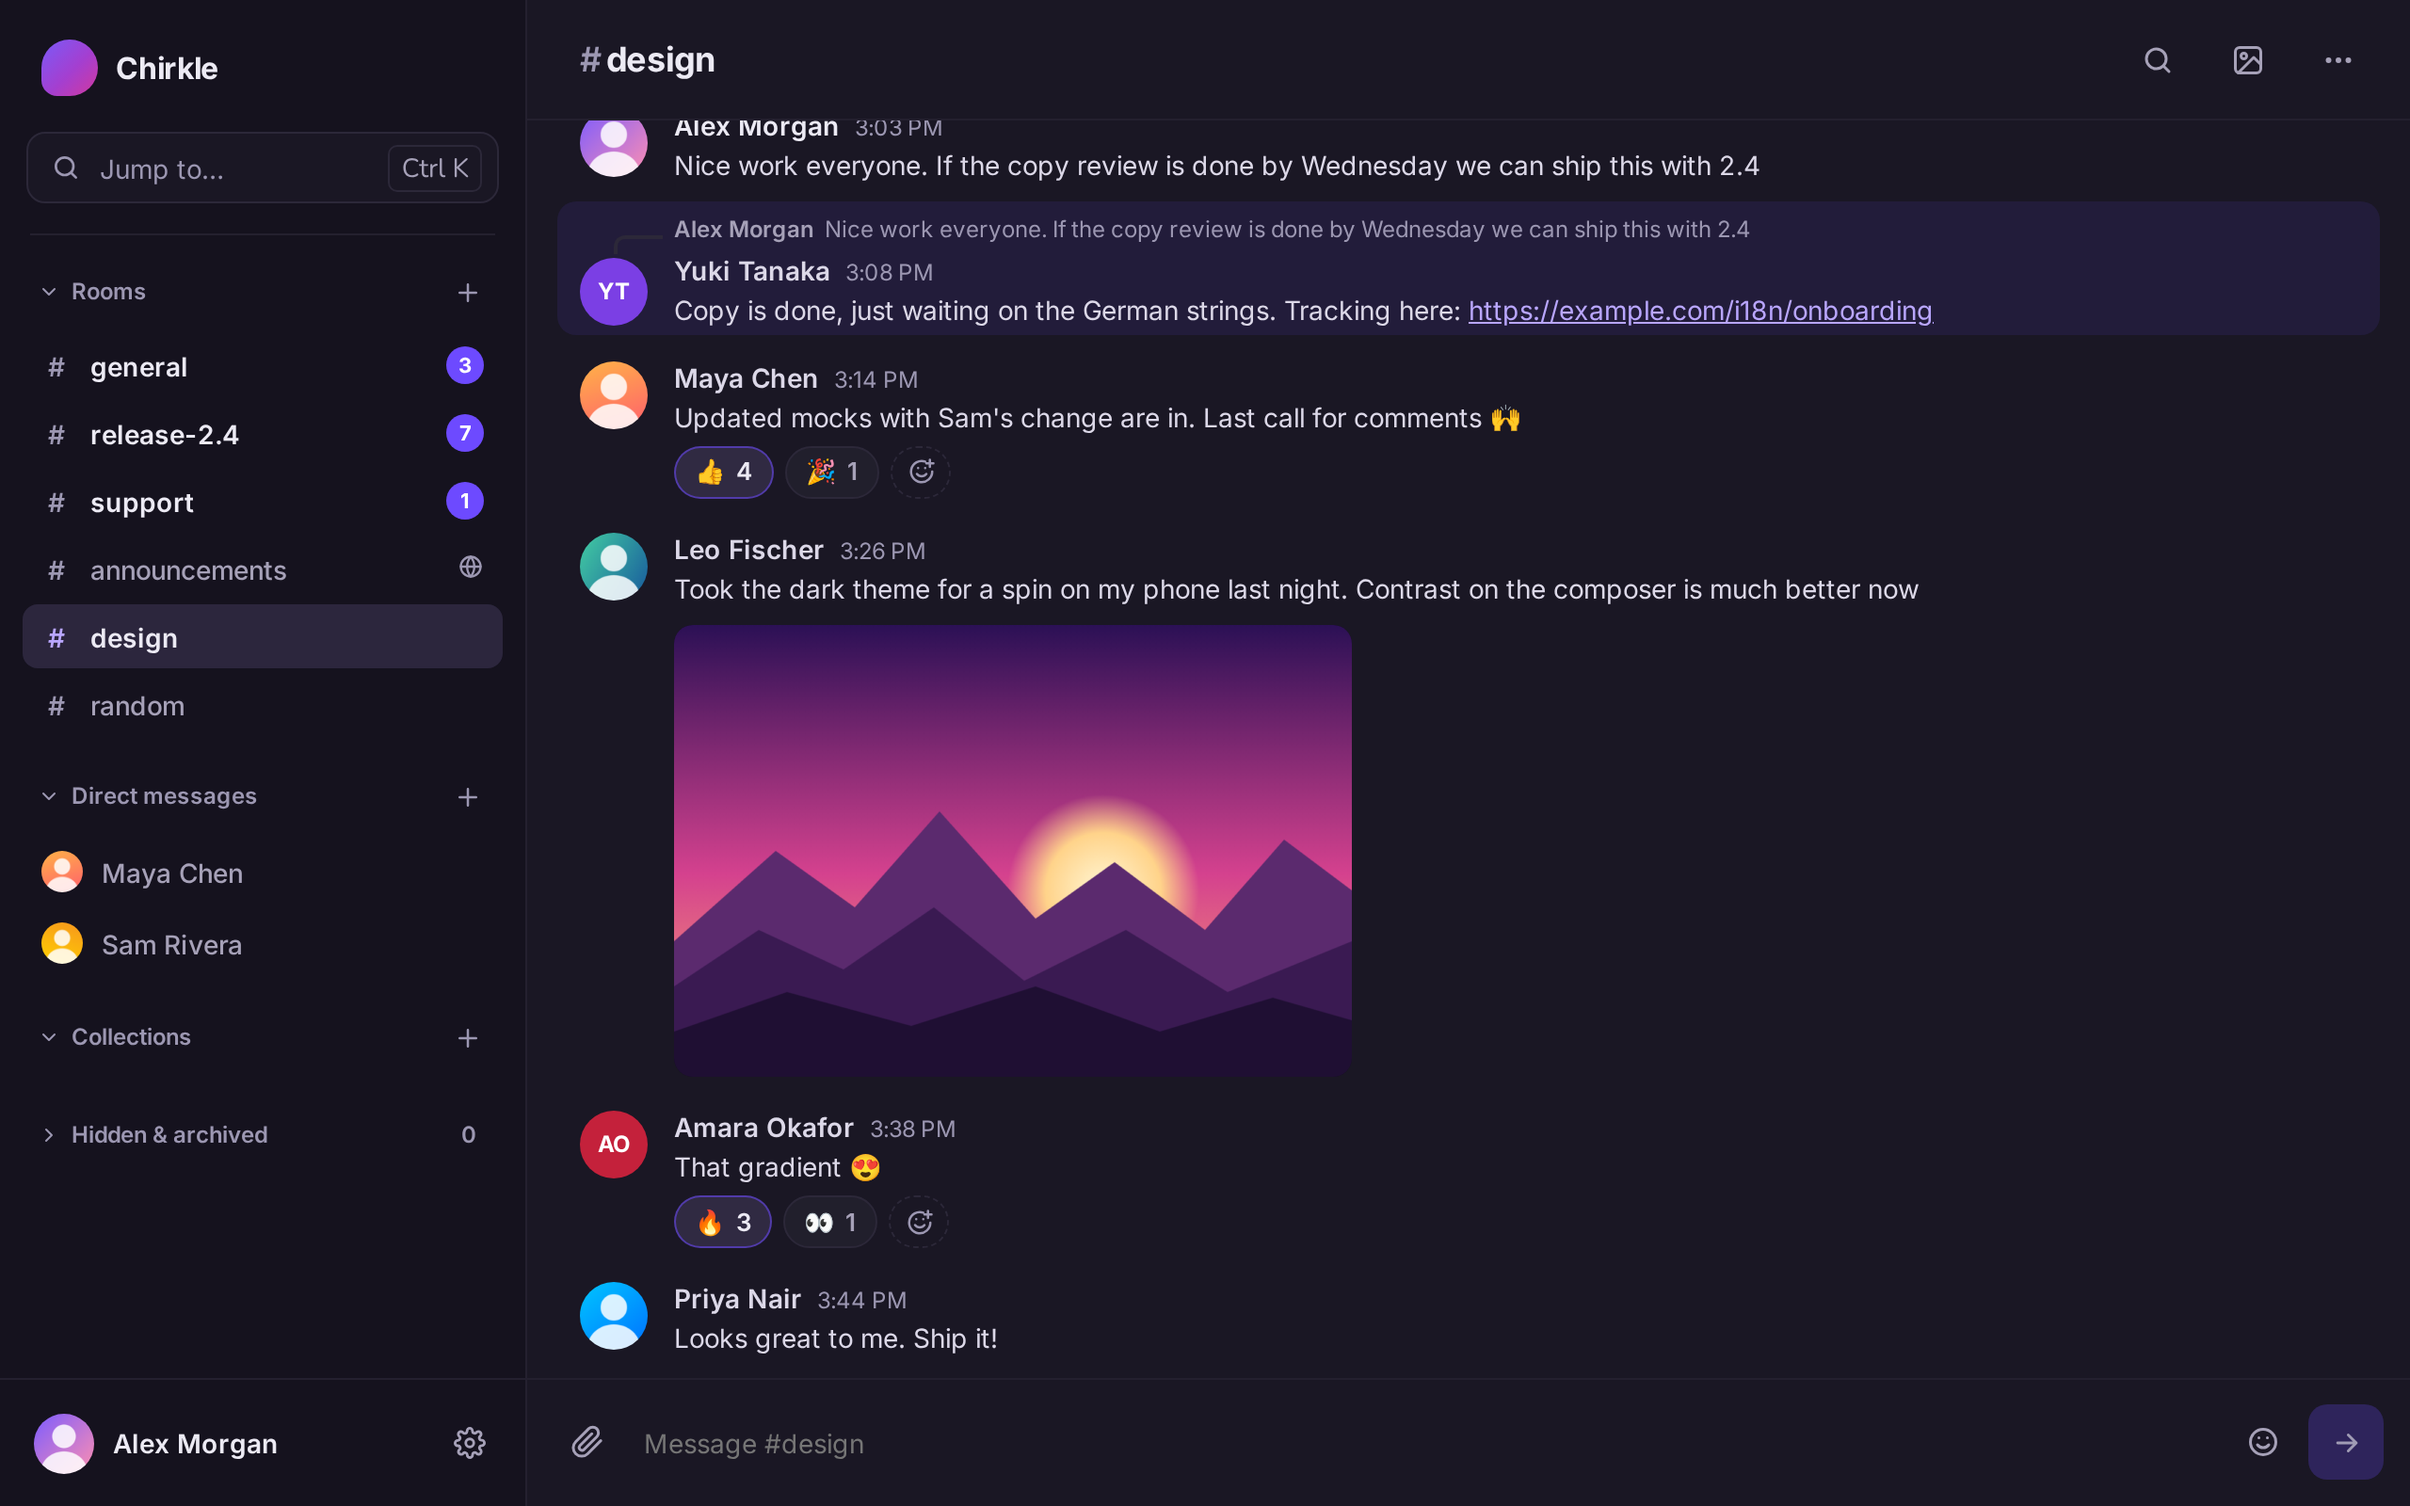
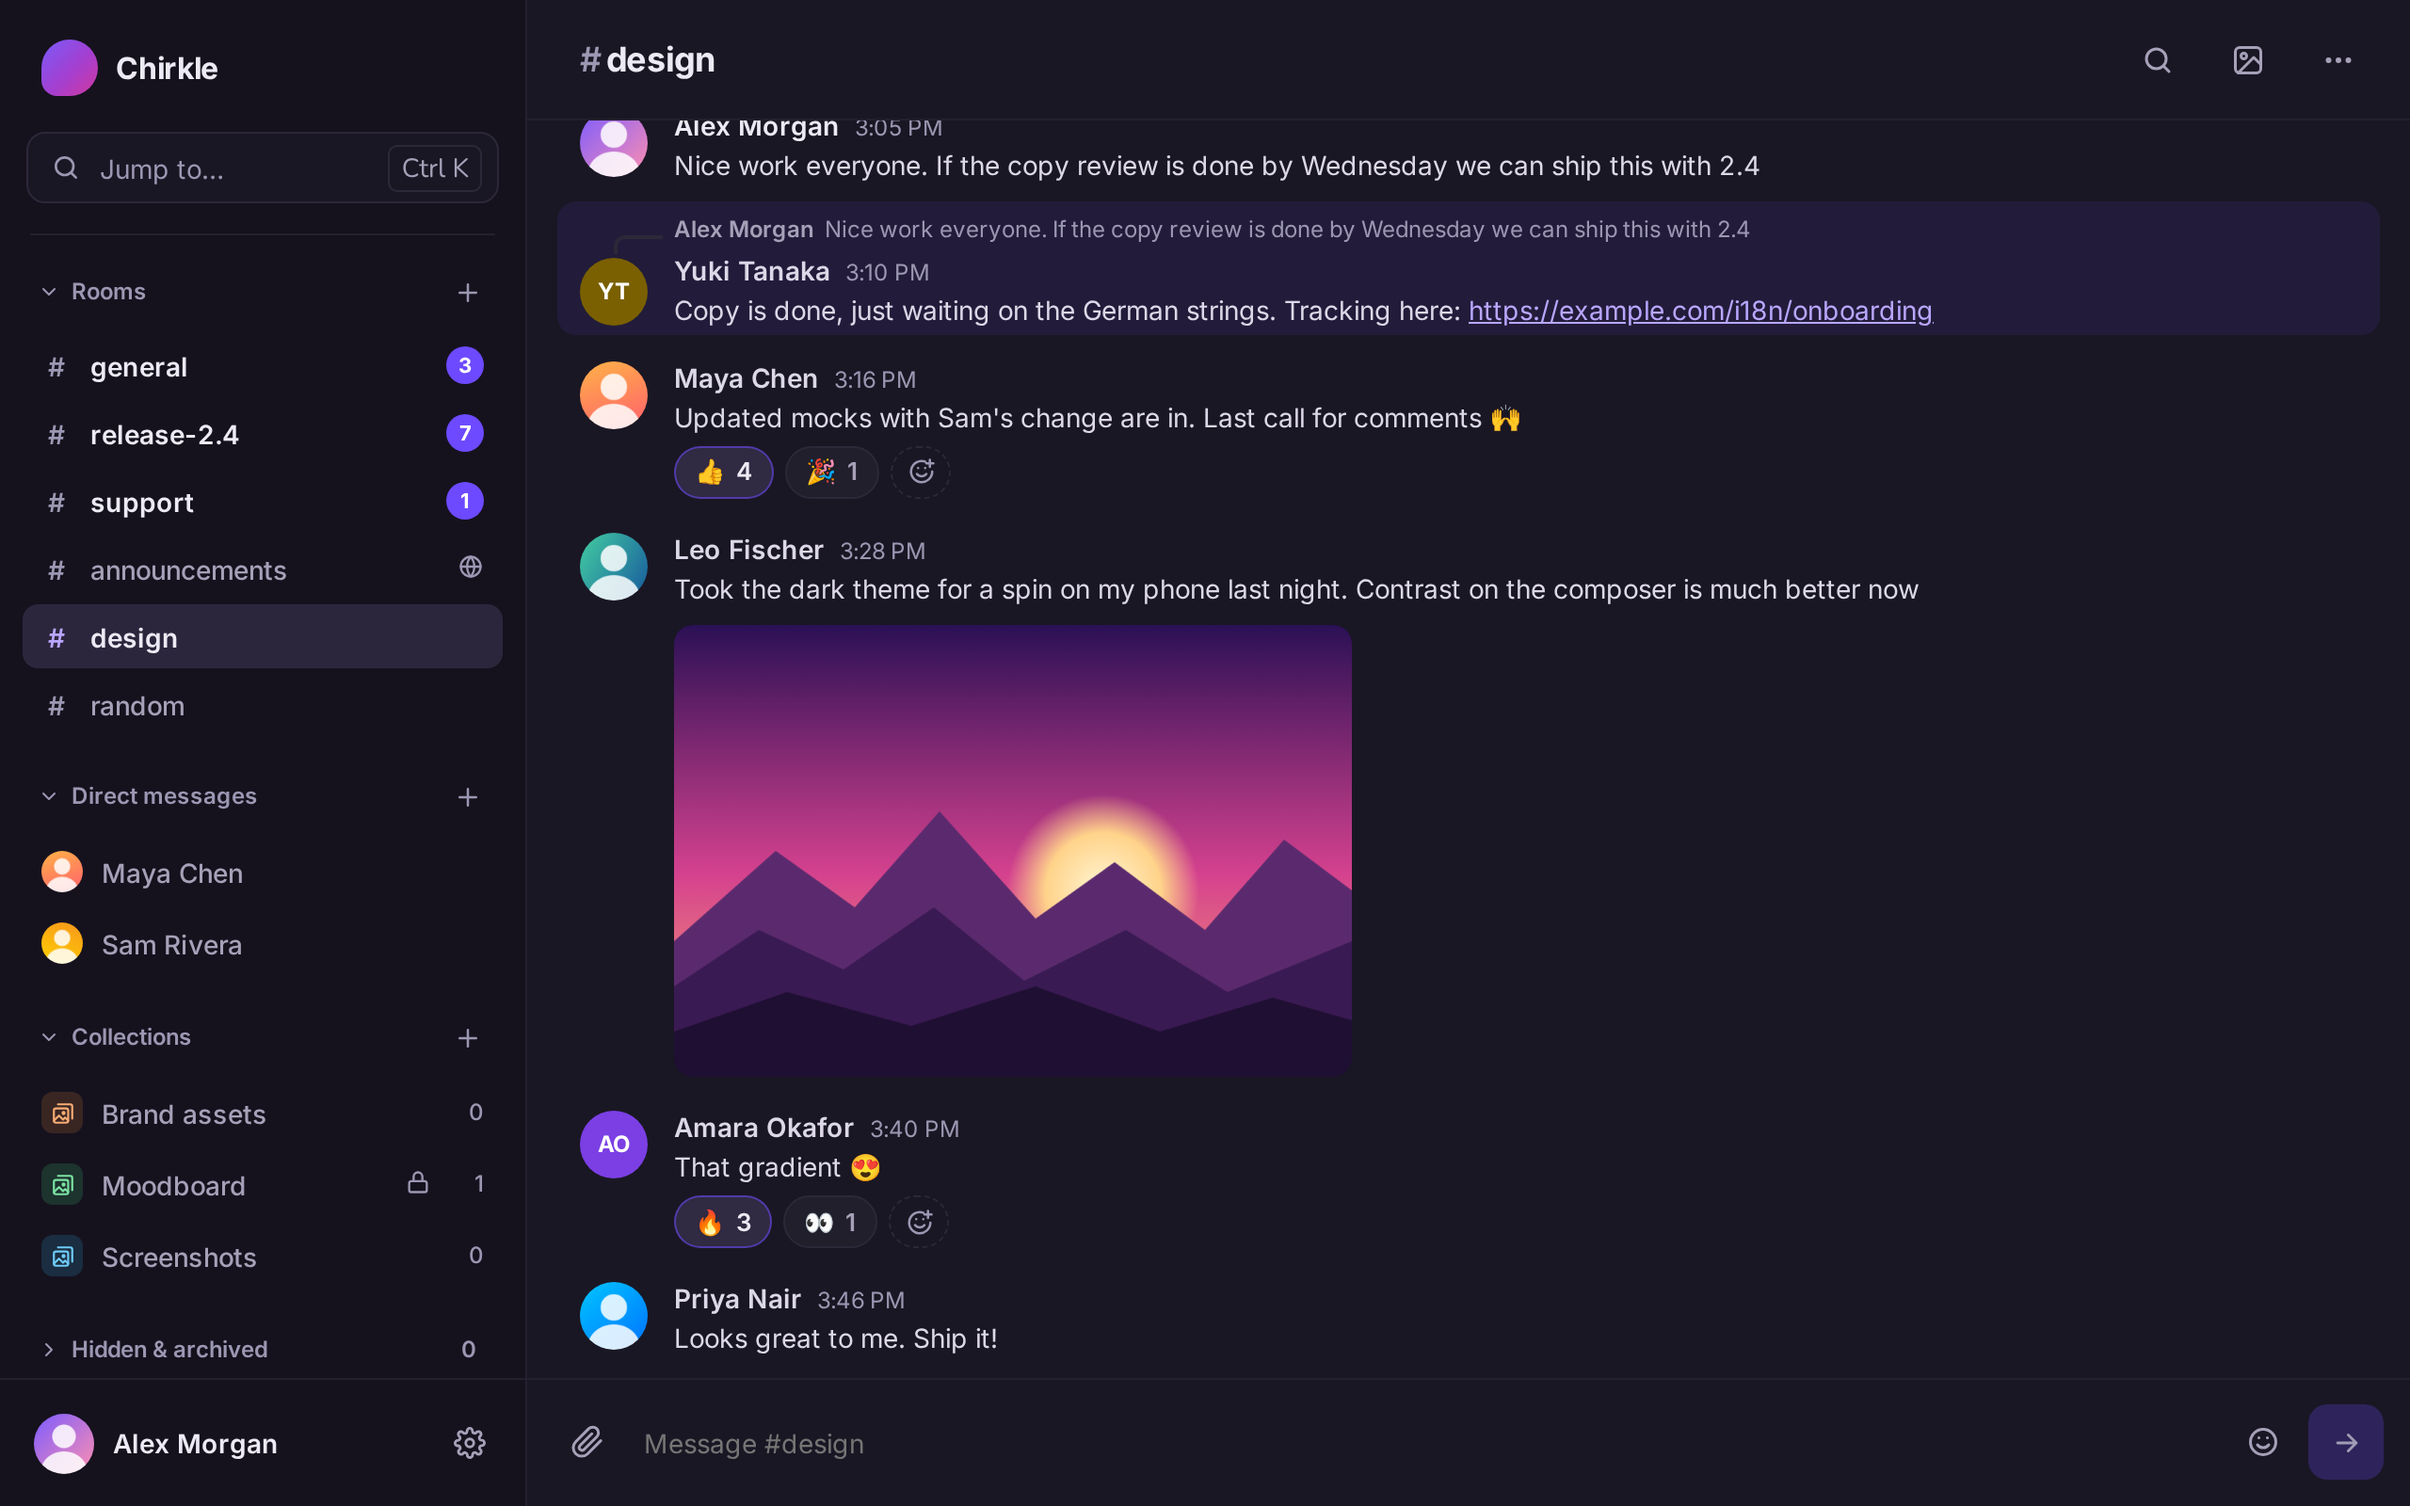
Update readme

diff --git a/scripts/screenshots.ts b/scripts/screenshots.ts
@@ -230,6 +230,40 @@ try {
     })),
   ]);
 
+  // ---- Alex's collections, the photo saved to one so the sidebar shows a count
+  const json = { "content-type": "application/json" };
+  const auth = await fetch(`${pb.url}/api/collections/users/auth-with-password`, {
+    method: "POST",
+    headers: json,
+    body: JSON.stringify({ identity: "alex@example.com", password: PASSWORD }),
+  });
+  const asAlex = { ...json, authorization: ((await auth.json()) as { token: string }).token };
+  const shot = await fetch(`${pb.url}/api/collections/messages/records?perPage=1&filter=${encodeURIComponent("files ~ 'dusk'")}`, {
+    headers: asAlex,
+  });
+  const [withPhoto] = ((await shot.json()) as { items: { id: string; files: string[] }[] }).items;
+  for (const [name, isPublic] of [
+    ["Moodboard", false],
+    ["Screenshots", true],
+    ["Brand assets", true],
+  ] as const) {
+    const res = await fetch(`${pb.url}/api/collections/collections/records`, {
+      method: "POST",
+      headers: asAlex,
+      body: JSON.stringify({ owner: alex, name, public: isPublic }),
+    });
+    const { id } = (await res.json()) as { id: string };
+    if (!res.ok) throw new Error(`collection ${name}: ${res.status} ${JSON.stringify({ id })}`);
+    if (name !== "Moodboard") continue;
+    if (!withPhoto) throw new Error("no message with the photo to save");
+    const saved = await fetch(`${pb.url}/api/chat/items`, {
+      method: "POST",
+      headers: asAlex,
+      body: JSON.stringify({ collection: id, message: withPhoto.id, file: withPhoto.files[0] }),
+    });
+    if (!saved.ok) throw new Error(`saving the photo: ${saved.status} ${await saved.text()}`);
+  }
+
   // ---- photographs
   await mkdir(OUT, { recursive: true });
   const design = (await as("alex").listRooms()).find((r) => r.name === "design")!;
